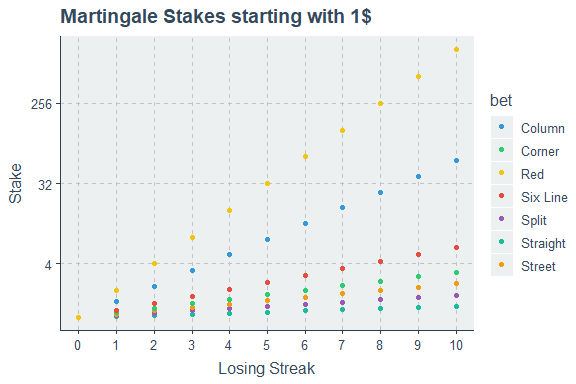
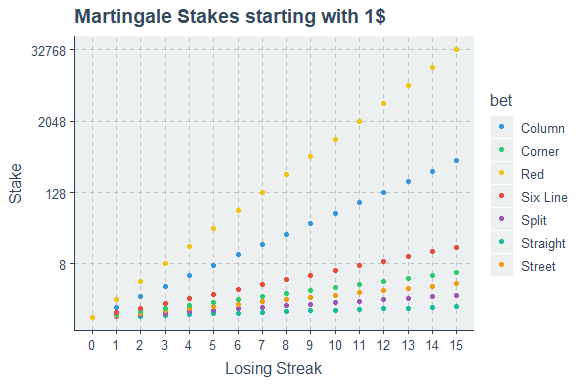
simulation b

diff --git a/roulette_strategy.md b/roulette_strategy.md
@@ -4,7 +4,7 @@ Thanos Livanis
 13/12/2023
 
 **Analysis & simulation of *Gambler’s Ruin* problem in Roulette under
-different betting strategies & circumastances**
+different betting strategies & circumstances**
 
 -   [Analysis](#analysis)
     -   [Profit & Loss](#pnl-distribution)
@@ -14,14 +14,15 @@ different betting strategies & circumastances**
     -   [Description](#description)
     -   [Martingale](#martingale)
     -   [Simulation](#simulation)
-
-@to do: Part2 Comments and Graphs
+        -   [Roulette Ruin](#roulette-ruin)
+        -   [Casino Night](#casino-night)
 
 ``` r
 rm(list = ls())
 
+library(reshape2)
 library(tidyverse)
-library(gridExtra)
+library(ggpubr)
 library(ggthemr)
 
 options(scipen = 999)
@@ -75,16 +76,19 @@ ggthemr("flat")
 
 pl_density <- returns %>% filter(roulette == "European") %>%
   ggplot(aes(x = PnL, color = bet)) +
-  geom_density(adjust = 1.5, show.legend = F) + 
+  geom_density(adjust = 2, linewidth = 1) + 
+  theme(legend.position="none") +
   coord_cartesian(xlim = c(-500, 500)) 
 
 pl_box <- returns %>% filter(roulette == "European") %>%
   ggplot(aes(x = bet, y = PnL, fill = bet)) +
   geom_boxplot() +
-  guides(color = guide_legend(title = "Bet")) +
-  theme(axis.title.x=element_blank(), axis.text.x = element_text(angle = 90, vjust = 0.5, hjust = 1)) 
+  theme(axis.title.x=element_blank(), axis.text.x = element_text(angle = 90, vjust = 0.5, hjust = 1), 
+        legend.position="none") 
 
-grid.arrange(pl_density, pl_box, ncol=2, top = "Profit & Loss distribution after 1000 European Roulette Spins")
+pl <- ggarrange(pl_box, pl_density, nrow = 2, common.legend = F)
+annotate_figure(pl, top = text_grob("Profit & Loss distribution after 1000 European Roulette Spins", 
+                                    face = "bold", size = 12))
 ```
 
 ![](roulette_strategy_files/figure-gfm/pnl_distribution-1.png)<!-- -->
@@ -92,8 +96,13 @@ grid.arrange(pl_density, pl_box, ncol=2, top = "Profit & Loss distribution after
 ### Profit Probability
 
 If we spin the Roulette N times and win M bets:
-PnL = *M* ⋅ payout − (*N*−*M*). Thus: *M* \> *N* ÷ (payout+1)  
+PnL = *M* ⋅ payout − (*N*−*M*). Thus:
+$M > \\frac{N}{\\text{payout} + 1}$  
 Profit Probability = *P*(*X*≥⌈*M*⌉) = pbinom(⌊*M*⌋,Spins,*p*,lower.tail = F)
+
+It is easier to make a profit from Straight & Split bets than betting on
+Red, due to higher variance. There is more inherent randomness
+associated with unlikely events.
 
 ``` r
 prop_profit <- function(roulette, bet, nspins) {
@@ -135,10 +144,11 @@ event*, with decimal odds, fair odds and fair probability 1, 37/36 and
 Thus fair odds of {37/36, 37} are mapped to roulette odds {1, 36},
 $rouletteOdds > \\frac{fairOdds}{1 + M}$ 
 
-**Contrary to Sports betting there isn’t any longshot bias.** Typically
-in Sports betting a margin of 1/36 applied to fair probabilities of
-(1/37, 36/37), would result in odds of {1.016, 22.63} using a method
-called odds ratio. 
+**Contrary to Sports betting there isn’t any longshot bias**, where the
+returns from long odds are smaller than short odds. Typically in Sports
+betting a margin of 1/36 applied to fair probabilities of (1/37, 36/37),
+would result in odds of {1.016, 22.63}, using a method called odds
+ratio. 
 
 Let’s visualize how the margin is applied to a probability event. The
 margin of an event i with odds of o and probability p is:
@@ -180,11 +190,6 @@ ggplot() +
 
 ![](roulette_strategy_files/figure-gfm/applied_margin-1.png)<!-- -->
 
-In sports betting longshots tend to have lower expected value. Thus
-there is a much higher chance to profit from long shots due to higher
-standard deviation returns, but obviously we can still suffer heavier
-losses.
-
 ## Gamblers Ruin in Roulette
 
 ### Description
@@ -196,16 +201,16 @@ probability p or loses 1 with probability 1 − p. The gambler will stop
 playing if either N dollars are accumulated or all money has been
 lost.  
 
-In our case the Gambler starts with an initial Capital & stops until he
-is ruined or reaches his target. He has the option to bet on an American
-or European Roulette and can choose to bet on a Straight, Split, Red
-etc. There are three betting strategies he can choose from:
+In our case the gambler starts with an initial capital & stops until he
+is ruined, reaches his target or after a specified number of spins. He
+has the option to bet on a Straight, Split, Red etc. There are three
+betting strategies:
 
 **1. Default**  
-The gambler makes a constant bet, say $1  
+The gambler makes a constant bet, $n.
 
 **2. Martingale**  
-The gambler starting with $1, tries to cover all previous consecutive
+The gambler starting with $n, tries to cover all previous consecutive
 losses and make a profit. The strategy is typical for even odds, where
 we double our initial stake, but can be extended to uneven odds as well.
 
@@ -213,17 +218,17 @@ we double our initial stake, but can be extended to uneven odds as well.
 The gambler bets his entire capital.
 
 All betting strategies are limited by the current bank (we can’t bet
-more than we have), we can’t bet more than the Casino Limit, and most
+more than we have), we can’t bet more than the casino limit, and most
 important **we never bet more money than we need to reach our target.** 
 Thus the bold strategy doesn’t necessarily mean we always put all money.
 If our current bank is 80, our target is 100 and we bet on red, we will
-place 20$
+place $20.
 
 ### Martingale
 
 Suppose that we bet 1$ to an event with payout p, expecting to make p
-units profit, *S*<sub>0</sub> = 1 If we lose the bet, in order to cover
-the loss and make p units profit, the next bet has to be:
+units profit, *S*<sub>0</sub> = 1 If we lose, in order to cover the loss
+and make p units profit, the next bet has to be:
 $S_1 = \\frac{p + 1}{p} = 1 + \\frac{1}{p}$. If
 *S*<sub>*n* − 1</sub> = *x*<sup>*n* − 1</sup>, where
 $x = 1 + \\frac{1}{p}$, then after n-1 consecutive loses,
@@ -232,28 +237,29 @@ $S_n = \\frac{p + \\frac{1-x^n}{1-x}}{p} = 1 + \\frac{1 - x^n}{(1-x)p}$
 Substituting x, we get:  
 $S_n = x^n = (1+\\frac{1}{p})^n$  
 
+In the general case: $S_n = S_o(1+\\frac{1}{p})^n$  
+
 ``` r
 ggthemr("flat")
 
-martingale_stakes <- function(payout, consecutive_loses) {
+martingale_stakes <- function(payout, consecutive_loses, unit) {
   
-  params <- as.list(environment())
-  
+  params <- as.list(environment())[1:2]
   stake <- vector("double", consecutive_loses)
   
   for (i in seq_along(stake)) 
-    stake[i] <- 1 + sum(stake[1:(i-1)])/payout
+    stake[i] <- unit + sum(stake[1:(i-1)])/payout
   
-  stake <- bind_cols(params, data.frame(stake = round(1 + sum(stake)/payout, 3))) 
+  stake <- bind_cols(params, data.frame(stake = round(unit + sum(stake)/payout, 3))) 
 }
 
 expand.grid(payout = unique(roulette_table$payout),
-                      consecutive_loses = 0:10) %>%
-  pmap_dfr(martingale_stakes) %>% 
+            consecutive_loses = 0:15) %>%
+  pmap_dfr(martingale_stakes, unit = 1) %>%
   left_join(roulette_table[roulette_table$type == "European", c("payout", "bet")], by = "payout") %>%
   ggplot(aes(x = consecutive_loses, y = stake, color = bet)) +
   geom_point() + 
-  scale_x_continuous(breaks = 0:10) +
+  scale_x_continuous(breaks = 0:15) +
   scale_y_continuous(trans='log2') +
   labs(x = "Losing Streak", y = "Stake", title = "Martingale Stakes starting with 1$")
 ```
@@ -266,6 +272,7 @@ expand.grid(payout = unique(roulette_table$payout),
 # @params:
 # @roulette: "European" | "American"
 # @bet: {Straight, Split, Street...}
+# @unit_bet: unit stake on Default Strategy and Martingale
 # @max_bet: Casino limit
 
 # @strategy: Default| Martingale | Bold
@@ -274,9 +281,10 @@ expand.grid(payout = unique(roulette_table$payout),
 # Bold: Bet the whole bank
 # All strategies limited by current bank, max bet allowed by casino and
 # **We never bet more than we actually need to reach our target.**
-play_roulette <- function(roulette, bet, starting_bank, target_bank, max_bet, max_spins, strategy, plot = F) {
+play_roulette <- function(roulette, bet, starting_bank, target_bank, unit_bet, 
+                          max_bet, max_spins, strategy, plot = F) {
   
-  params <- as.list(environment())[1:7]
+  params <- as.list(environment())[1:8]
   
   id <- which(roulette_table$type == roulette & roulette_table$bet == bet)
   prop <- roulette_table$prop[id]; payout <- roulette_table$payout[id]
@@ -292,9 +300,9 @@ play_roulette <- function(roulette, bet, starting_bank, target_bank, max_bet, ma
   
   stake_fun <- function(strategy) {
     if (strategy == "Default")
-      function(bank, payout, ls) 1
+      function(bank, payout, ls) unit_bet
     else if (strategy == "Martingale")
-      function(bank, payout, ls) (1 + 1/payout)^ls
+      function(bank, payout, ls) unit_bet*(1 + 1/payout)^ls
     else 
       function(bank, payout, ls) bank
   }
@@ -343,9 +351,10 @@ expand.grid(roulette = "European",
             bet = c("Straight", "Corner", "Red"),
             starting_bank = 50,
             target_bank = 100, 
-            strategy = c("Default", "Martingale", "Bold"),
+            unit_bet = 1,
             max_bet = 100, 
-            max_spins = 10^5) %>%
+            max_spins = 10^5,
+            strategy = c("Default", "Martingale", "Bold")) %>%
   pmap_dfr(play_roulette) %>%
   ggplot(aes(x = spins, y = bank, color = bet)) +
   geom_line() +
@@ -360,14 +369,17 @@ expand.grid(roulette = "European",
 
 ``` r
 # Simulate roulette round several times and & extract stats
-simulate <- function(roulette, bet, starting_bank, target_bank, max_bet, max_spins, strategy) {
+# Probability to reach target, to make a profit & to go bankrupt
+simulate <- function(roulette, bet, starting_bank, target_bank, unit_bet, max_bet, max_spins, strategy) {
   
   set.seed(1)
-  nsims <- 200
+  nsims <- 5000
   
-  mc_results <- replicate(nsims, play_roulette(roulette, bet, starting_bank, target_bank, max_bet, max_spins, strategy), simplify = F) %>%
+  mc_results <- replicate(nsims, play_roulette(roulette, bet, starting_bank, target_bank, 
+                                               unit_bet, max_bet, max_spins, strategy), 
+                          simplify = F) %>%
     map_dfr(~tail(., 1)) %>%
-    group_by(across(4:10)) %>%
+    group_by(across(4:11)) %>%
     summarize(p_profit = mean(bank > starting_bank),
               p_profit_se = sqrt(p_profit*(1-p_profit)/nsims),
               
@@ -382,19 +394,98 @@ simulate <- function(roulette, bet, starting_bank, target_bank, max_bet, max_spi
               spins_exp = mean(spins),
               spins_exp_se = sd(spins)/sqrt(nsims),
               spins_longest = max(spins),
+              
               .groups = "drop") 
 }
 ```
 
+#### Roulette Ruin
+
+Let’s simulate a variance of Gambler’s Ruin. In the below simulation,
+given the big number of spins, the gambler plays until he reaches his
+target or he is ruined under the 3 strategies.
+
+The results can be summarized this way: In a game with negative expected
+value, where we play till the end, we have to limit the number of
+trials, otherwise the law of the large numbers. It’s almost impossible
+the
+
 ``` r
-params_ruin <- expand.grid(roulette = "European",
+params_ruin <- expand.grid(roulette = c("European"),
                            bet = unique(roulette_table$bet),
                            starting_bank = 50,
                            target_bank = 100, 
-                           max_bet = 100, 
+                           unit_bet = 1,
+                           max_bet = 1000, 
                            max_spins = 10^5,
                            strategy = c("Default", "Martingale", "Bold"))
 
 sim_ruin <- params_ruin %>%
   pmap_dfr(simulate, .progress = T)
+
+ggthemr("flat")
+
+pl_prop <- sim_ruin %>% 
+  ggplot(aes(x = strategy, y = p_target, fill = bet)) +
+  geom_bar(stat = "identity", position = "dodge", color = "black") +
+  geom_errorbar(aes(ymin = p_target - 1.96*p_target_se, ymax = p_target + 1.96*p_target_se, color = bet),  
+                width = .2, position = position_dodge(.9), show.legend = F) + 
+  labs(y = "Target Probability") +
+  theme(axis.title.x = element_blank()) 
+
+pl_spins <- sim_ruin %>% 
+  ggplot(aes(x = strategy, y = spins_exp, fill = bet)) +
+  geom_bar(stat="identity", position = "dodge", color = "black") +
+  scale_y_continuous(trans='log2') +
+  labs(y = "Average Number of Spins") +
+  theme(axis.title.x=element_blank())
+
+
+pl <- ggarrange(pl_prop, pl_spins, ncol = 2, common.legend = T, legend = "right")
+annotate_figure(pl, top = text_grob(paste("Roulette Ruin:", 
+                                          paste(c("Starting Bank", "Target Bank", "Unit"), "=",
+                                          c(unique(sim_ruin$starting_bank), 
+                                            unique(sim_ruin$target_bank), 
+                                            unique(sim_ruin$unit_bet)),
+                                          collapse = ", ")), 
+                                    face = "bold", size = 12))
 ```
+
+![](roulette_strategy_files/figure-gfm/roulette_ruin-1.png)<!-- -->
+
+#### Casino Night
+
+A simulation of a night at Casino. The gambler walks in with 2000$.
+
+``` r
+params_real <- expand.grid(roulette = c("European"),
+                           bet = unique(roulette_table$bet),
+                           starting_bank = 2000,
+                           target_bank = 3000, 
+                           unit_bet = 5,
+                           max_bet = 1000, 
+                           max_spins = 200,
+                           strategy = c("Default", "Martingale", "Bold"))
+
+sim_real <- params_real %>%
+  pmap_dfr(simulate, .progress = T)
+
+ggthemr("flat")
+
+sim_real %>% melt(measure.vars = c("p_profit", "p_target", "p_bankrupt")) %>%
+  mutate(se = ifelse(variable == "p_profit", p_profit_se, ifelse(variable == "p_target", p_target_se, p_bankrupt_se))) %>%
+  ggplot(aes(x = strategy, y = value, fill = bet)) +
+  geom_bar(stat="identity", position = "dodge", color = "black") +
+  geom_errorbar(aes(ymin = value - 1.96*se, ymax = value + 1.96*se, color = bet),  
+                width = .2, position = position_dodge(.9), show.legend = F) + 
+  facet_grid(variable ~.) +
+  labs(y = "Probability", title = paste("Casino Night:", 
+                                        paste(c("Starting Bank", "Target Bank", "Unit Bet"), "=",
+                                              c(unique(sim_real$starting_bank), 
+                                                unique(sim_real$target_bank), 
+                                                unique(sim_real$unit_bet)), 
+                                              collapse = ", "))) +
+  theme(axis.title.x=element_blank(), plot.title = element_text(size = 12, face = "bold", hjust = 0.5)) 
+```
+
+![](roulette_strategy_files/figure-gfm/casino_night-1.png)<!-- -->
